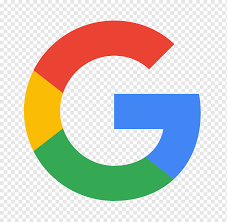
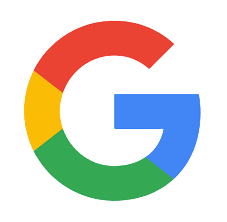
changes

Changed region(s): [[0.0, 0.0, 1.0, 1.0]]

diff --git a/signup.html b/signup.html
@@ -70,7 +70,7 @@
                     <div class="create" style="padding-top: 10px;">
                         Or sign-up using:  
                         <div class="imgs">
-                            <img src="images/ggl3.png" height="30px" width="30px" alt="">
+                            <img src="images/ggl.png" height="33px" width="33px" alt="">
                             <img src="images/fb.png" height="30px" width="30px" alt="">
                         </div>
                     </div>
